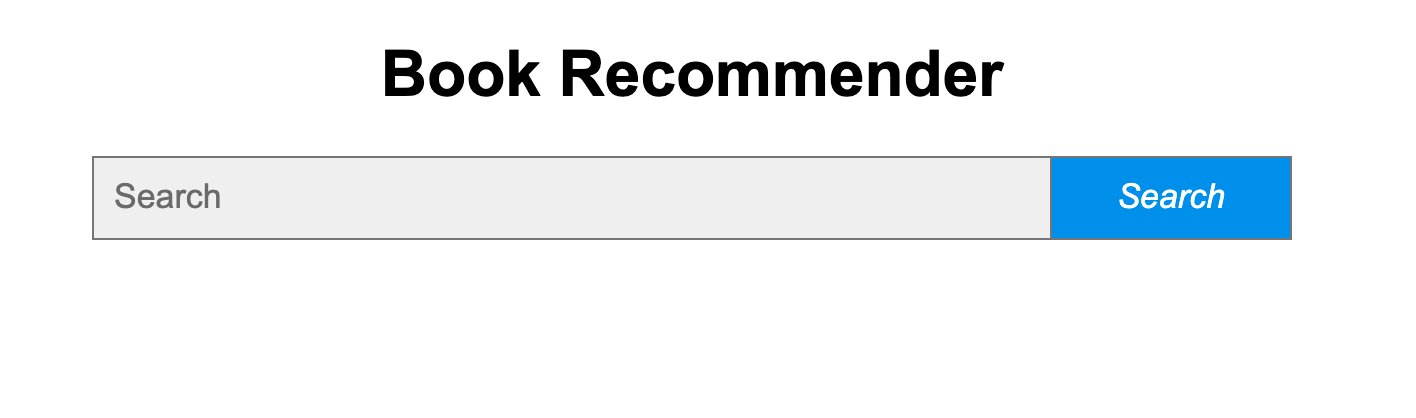
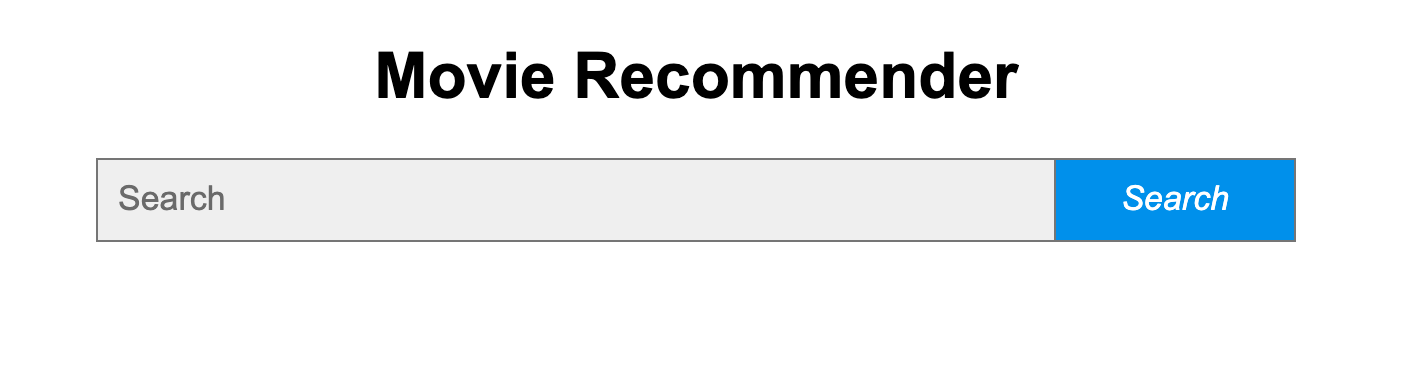
add param for number of movies displayed

Changed region(s): [[0.0621, 0.3511, 0.9322, 0.6436], [0.2486, 0.117, 0.7147, 0.2633]]

diff --git a/flaskapp/templates/home.html b/flaskapp/templates/home.html
@@ -7,10 +7,10 @@
         <link rel="stylesheet" 
         href="https://cdnjs.cloudflare.com/ajax/libs/font-
         awesome/4.7.0/css/font-awesome.min.css">
-        <link rel="stylesheet" href="/static/index.css">
+        <link rel="stylesheet" href="/static/main.css">
     </head>
     <body>
-        <h1><center>Book Recommender</center></h1>
+        <h1><center>Movie Recommender</center></h1>
         <form class="example" method="post" action="" 
          style="margin:auto;max-width:600px">
             <input type="text" placeholder="Search" name="movie">

diff --git a/flaskapp/recommender.py b/flaskapp/recommender.py
@@ -22,7 +22,7 @@ class Recommender:
 	    return row['keywords']+" "+row['cast']+" "+row['genres']+" "+row['director']
 
 
-	def get_recommended_movies(self, movie_input):
+	def get_recommended_movies(self, movie_input, n):
 		features = ["keywords", "cast", "genres", "director"]
 
 		for feature in features:
@@ -43,7 +43,7 @@ class Recommender:
 		sorted_similar_movies = sorted(similar_movies,key=lambda x:x[1],reverse=True)[1:]
 
 		output = []
-		for i in range(10):
+		for i in range(n):
 			output.append(self.get_title_from_index(sorted_similar_movies[i][0]))
 
 		return output

diff --git a/flaskapp/movie_app.py b/flaskapp/movie_app.py
@@ -8,6 +8,6 @@ def home():
 		movie_input = request.form["movie"]
 		# TODO: validate input
 		recommender = Recommender('movie_dataset.csv')
-		data = recommender.get_recommended_movies(movie_input)
+		data = recommender.get_recommended_movies(movie_input, 20)
 		return render_template("home.html", data=data)
 	return render_template("home.html")
